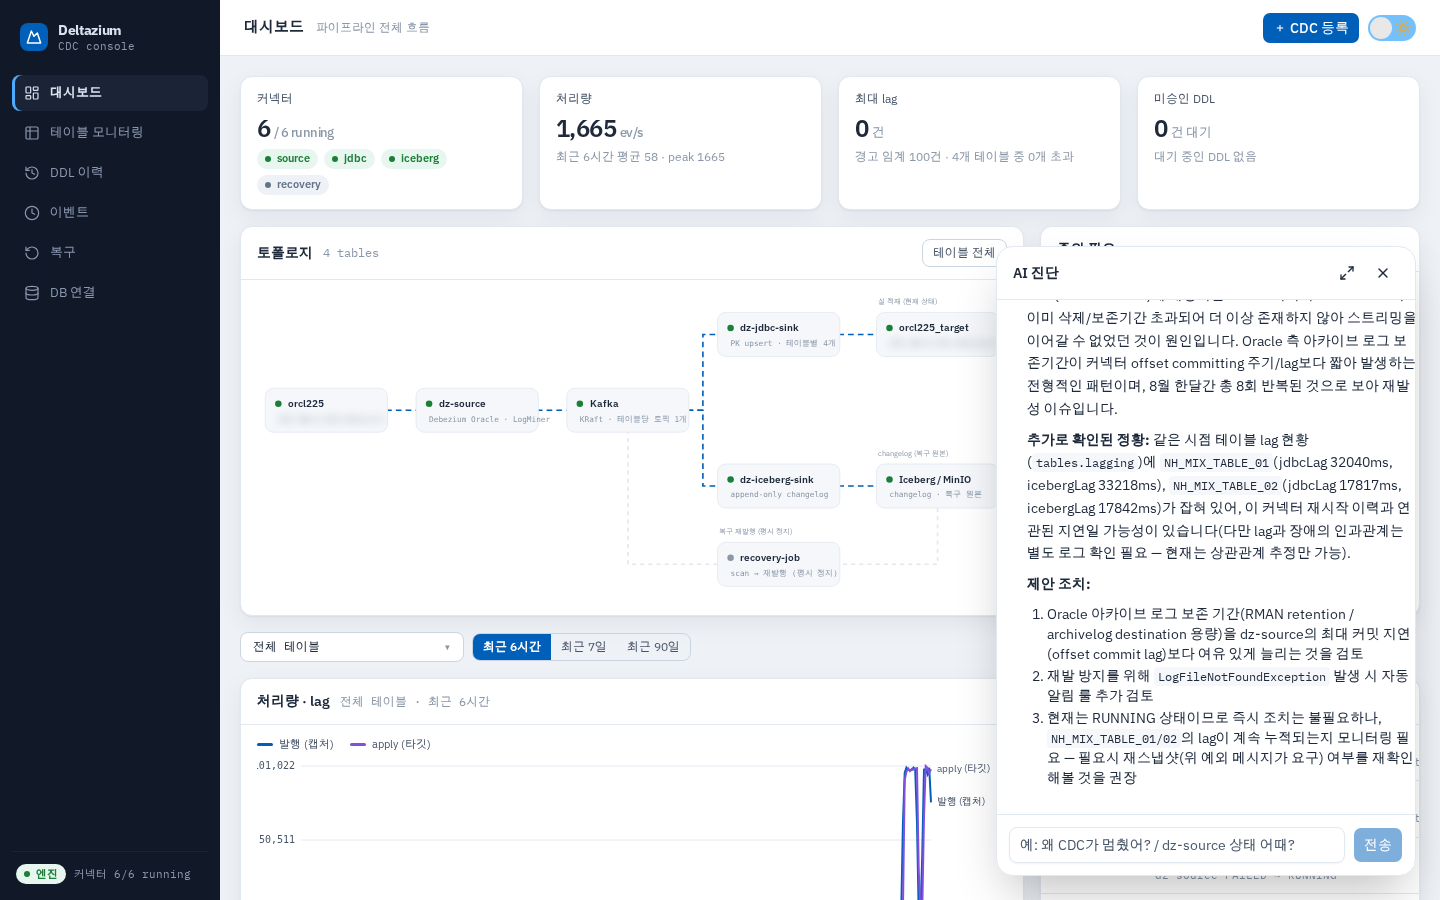
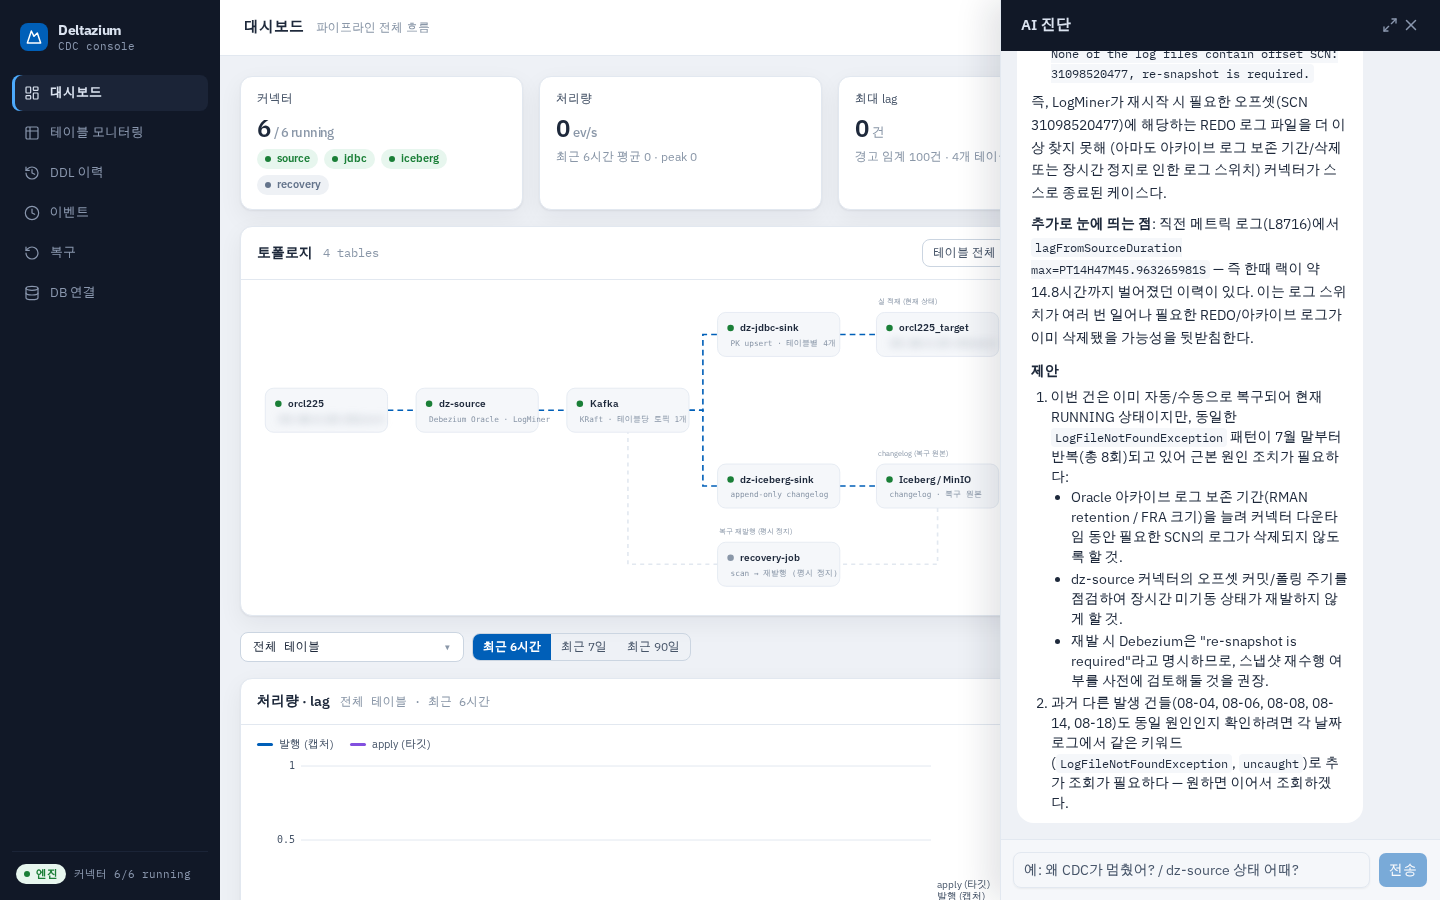
fix: AI 진단 drawer 메시지 그리드 가로 오버플로 방지(min-w-0) + docs: README 문구·스크린샷을 drawer UI로 갱신

diff --git a/ui/src/features/assist/AssistDrawer.tsx b/ui/src/features/assist/AssistDrawer.tsx
@@ -195,7 +195,9 @@ export function AssistDrawer({ open, onClose }: AssistDrawerProps) {
             맥락을 함께 적어주세요.
           </p>
         )}
-        <div className="grid gap-3">
+        {/* [&>*]:min-w-0 — grid item의 min-width:auto가 code block 폭만큼 버블을 밀어내
+            drawer 밖으로 넘치는 것 방지 (pre의 overflow-x-auto가 동작하려면 필수) */}
+        <div className="grid gap-3 [&>*]:min-w-0">
           {messages.map((m, i) => (
             <MessageBubble key={i} msg={m} />
           ))}
